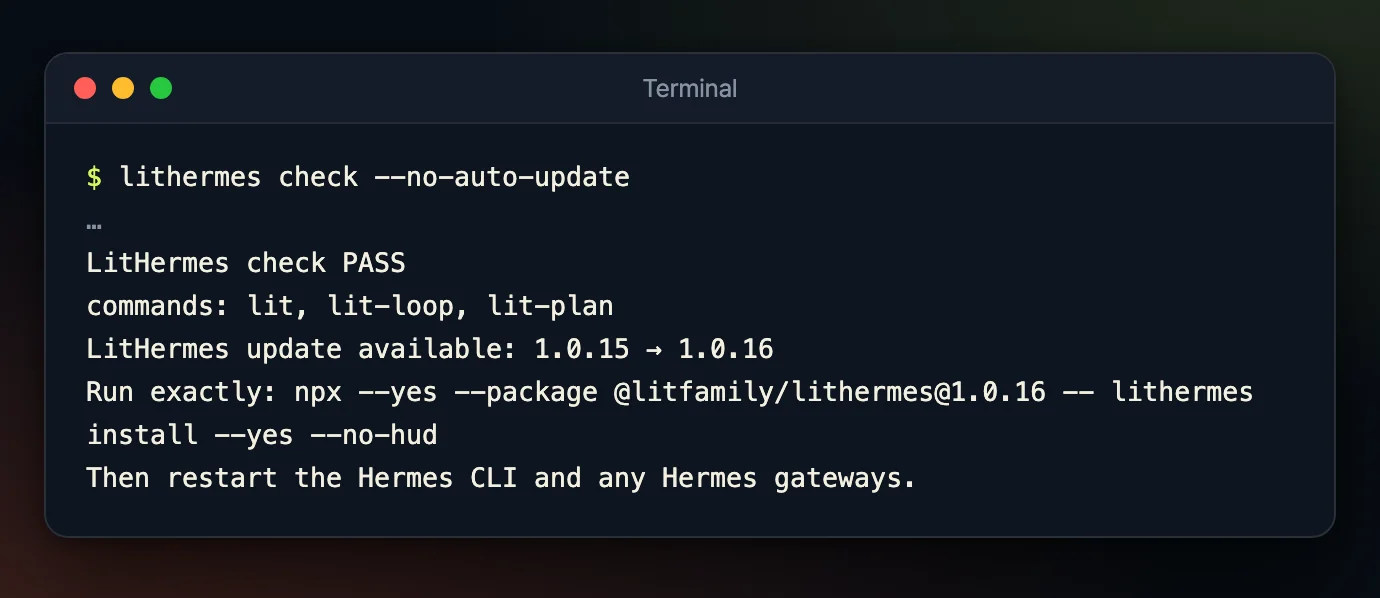
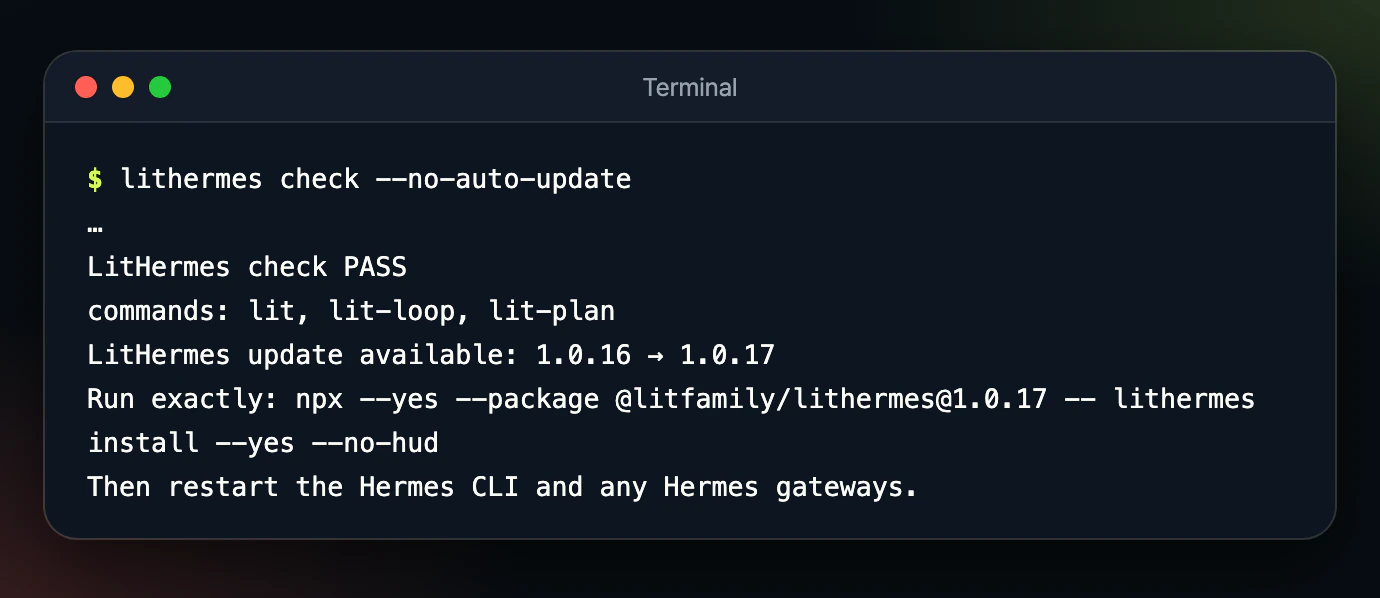
chore(release): prepare 1.0.16

diff --git a/packages/lithermes-installer/test/readme.test.js b/packages/lithermes-installer/test/readme.test.js
@@ -18,13 +18,13 @@ const localPublishCommand = "npm publish --access public";
 function assertCoverImage(text, label, repository) {
   const staticSrc = repository
     ? "./docs/assets/cover.webp"
-    : "https://cdn.jsdelivr.net/npm/@litfamily/lithermes@1.0.15/readme-assets/cover.webp";
+    : "https://cdn.jsdelivr.net/npm/@litfamily/lithermes@1.0.16/readme-assets/cover.webp";
   const reducedMotionSrc = repository
     ? "./docs/assets/cover-motion-still.webp"
-    : "https://cdn.jsdelivr.net/npm/@litfamily/lithermes@1.0.15/readme-assets/cover-motion-still.webp";
+    : "https://cdn.jsdelivr.net/npm/@litfamily/lithermes@1.0.16/readme-assets/cover-motion-still.webp";
   const motionSrc = repository
     ? "./docs/assets/cover-motion.webp"
-    : "https://cdn.jsdelivr.net/npm/@litfamily/lithermes@1.0.15/readme-assets/cover-motion.webp";
+    : "https://cdn.jsdelivr.net/npm/@litfamily/lithermes@1.0.16/readme-assets/cover-motion.webp";
   assert.ok(
     text.includes('<picture><source media="(prefers-reduced-motion: reduce)" srcset="' + reducedMotionSrc + '" /><img src="' + motionSrc + '" width="100%"'),
     label + " must use the animated cover and its reduced-motion still",
@@ -85,17 +85,17 @@ test("bilingual entry pages preserve the canonical banner and use repository art
       else assert.doesNotMatch(text, /<details>/, file + " is a short npm card without collapsible sections");
       const markSrc = directory === repoRoot
         ? "./docs/assets/readme/ascii-readme.svg"
-        : "https://cdn.jsdelivr.net/npm/@litfamily/lithermes@1.0.15/readme-assets/ascii-readme.svg";
+        : "https://cdn.jsdelivr.net/npm/@litfamily/lithermes@1.0.16/readme-assets/ascii-readme.svg";
       assert.ok(text.includes('<p align="center"><img src="' + markSrc + '" width="480"'), file + " must load its ASCII mark from its own surface");
       const coverSrc = directory === repoRoot
         ? "./docs/assets/cover-motion.webp"
-        : "https://cdn.jsdelivr.net/npm/@litfamily/lithermes@1.0.15/readme-assets/cover-motion.webp";
+        : "https://cdn.jsdelivr.net/npm/@litfamily/lithermes@1.0.16/readme-assets/cover-motion.webp";
       assert.ok(text.includes('src="' + coverSrc + '"'), file + " must resolve artwork from its own surface");
       assertCoverImage(text, file, directory === repoRoot);
       if (directory === repoRoot) {
         assert.doesNotMatch(text, /cdn\.jsdelivr/, "GitHub landing keeps repository-relative artwork");
       } else {
-        assert.match(text, /cdn\.jsdelivr\.net\/npm\/@litfamily\/lithermes@1\.0\.15\/readme-assets\//, "package landing must load artwork from the published tarball");
+        assert.match(text, /cdn\.jsdelivr\.net\/npm\/@litfamily\/lithermes@1\.0\.16\/readme-assets\//, "package landing must load artwork from the published tarball");
         assert.doesNotMatch(text, /raw\.githubusercontent/, "package landing must not depend on GitHub raw URLs");
       }
       assert.match(text, /```text\nlit [^\n]+\n```/, `${file} must show first bare lit use`);
@@ -337,9 +337,9 @@ function localPublishPolicyErrors(text) {
     for (const [pattern, message] of [
       [/nonzero/i, "nonzero-result handling"],
       [/never blind-retry/i, "no blind retry rule"],
-      [/npm view @litfamily\/lithermes@1\.0\.15 version/, "exact-version registry query"],
+      [/npm view @litfamily\/lithermes@1\.0\.16 version/, "exact-version registry query"],
       [/published artifact/i, "published-artifact inspection"],
-      [/npm pack @litfamily\/lithermes@1\.0\.15/, "published-artifact download"],
+      [/npm pack @litfamily\/lithermes@1\.0\.16/, "published-artifact download"],
     ]) {
       if (!pattern.test(followUp)) errors.push(`missing nearby ${message}`);
     }
@@ -417,7 +417,7 @@ test("root README files present polished GitHub landing pages", () => {
     for (const required of [
       "https://github.com/wjgoarxiv/lithermes",
       "https://www.npmjs.com/package/@litfamily/lithermes",
-      "@litfamily/lithermes@1.0.15",
+      "@litfamily/lithermes@1.0.16",
       "Hermes Goal Tools",
       "PREPARING INSTALL",
       "INSTALL RECEIPT",
@@ -472,7 +472,7 @@ test("English and Korean root/package docs explain the bounded Node update notic
 test("package metadata points at the renamed GitHub repository", () => {
   const pkg = require(path.join(packageRoot, "package.json"));
   assert.equal(pkg.name, "@litfamily/lithermes");
-   assert.equal(pkg.version, "1.0.15");
+   assert.equal(pkg.version, "1.0.16");
   assert.equal(pkg.bin.lithermes, "bin/lithermes.js");
   assert.equal(pkg.repository.type, "git");
   assert.equal(pkg.repository.url, "git+https://github.com/wjgoarxiv/lithermes.git");
@@ -528,8 +528,8 @@ guard protects this path, but its inspected preflight archive is not byte-identi
 \`\`\`sh
 npm publish --access public
 \`\`\`
-After any nonzero result, npm view @litfamily\/lithermes@1.0.15 version and never blind-retry. After success,
-download the published artifact with npm pack @litfamily\/lithermes@1.0.15 and inspect it.
+After any nonzero result, npm view @litfamily\/lithermes@1.0.16 version and never blind-retry. After success,
+download the published artifact with npm pack @litfamily\/lithermes@1.0.16 and inspect it.
 `;
   assert.deepEqual(localPublishPolicyErrors(sanctioned), [], "a fully sanctioned HUMAN-ONLY block must pass");
 });
@@ -604,7 +604,7 @@ test("README files document Korean prose cleanup command boundaries", () => {
   for (const [file, text] of docs) {
     const language = file.includes("Ko-KR") ? "ko" : "en";
     for (const required of [
-      "@litfamily/lithermes@1.0.15",
+      "@litfamily/lithermes@1.0.16",
       "lit-humanizer",
       "/lit-humanizer",
       "/lit-korean",
@@ -992,7 +992,7 @@ test("terminal screens ship on the GitHub pages only, in both themes, with capti
     const { version } = require("../package.json");
     assert.ok(pictures[0][3].includes(`Installed LitHermes ${version}`), `${name}: the install alt must quote the first line`);
     assert.ok(pictures[3][3].includes("🔥 LIT IGNITED · litwork 🔥"), `${name}: the acknowledgement alt must quote the line`);
-    assert.ok(pictures[4][3].includes(`LitHermes update available: ${version} → 1.0.16`), `${name}: the notice alt must quote the notice`);
+    assert.ok(pictures[4][3].includes(`LitHermes update available: ${version} → 1.0.17`), `${name}: the notice alt must quote the notice`);
     const captions = [...section.matchAll(/^\*([^*\n]+)\*$/gm)].map((match) => match[1]);
     assert.equal(captions.length, 5, `${name} needs one caption per picture`);
     for (const caption of captions) assert.match(caption, labels[lang], `${name}: caption must label the picture honestly`);

diff --git a/packages/lithermes-installer/test/prepublish-guard.test.js b/packages/lithermes-installer/test/prepublish-guard.test.js
@@ -264,7 +264,7 @@ test("guard runs every required gate and artifact step serially without publicat
     "git ls-remote --exit-code origin refs/heads/main",
     "npm config get registry",
     "npm whoami --registry=https://registry.npmjs.org/",
-    "npm view @litfamily\/lithermes@1.0.15 version --json --loglevel=silent --registry=https://registry.npmjs.org/",
+    "npm view @litfamily\/lithermes@1.0.16 version --json --loglevel=silent --registry=https://registry.npmjs.org/",
     "npm test",
     "npm run test:python",
   ];
@@ -319,7 +319,7 @@ test("last local snapshot rejects state changed after the final network checks",
     await assert.rejects(async () => loadGuard().runPrepublishGuard(harness.dependencies), message);
     const commands = harness.calls.map(commandText);
     const finalViewAt = commands.lastIndexOf(
-    "npm view @litfamily\/lithermes@1.0.15 version --json --loglevel=silent --registry=https://registry.npmjs.org/",
+    "npm view @litfamily\/lithermes@1.0.16 version --json --loglevel=silent --registry=https://registry.npmjs.org/",
     );
     assert.ok(finalViewAt >= 0);
     assert.deepEqual(commands.slice(finalViewAt + 1, finalViewAt + 4), [

diff --git a/packages/lithermes-installer/test/model-route-choice.test.js b/packages/lithermes-installer/test/model-route-choice.test.js
@@ -319,8 +319,8 @@ test("renderModelRouteCard prints one helper row without the provider when it ma
 
 test("renderInstallBanner uses the canonical banner and product lockup", () => {
   const mark = require("../src/lib/litMark");
-  const banner = renderInstallBanner({ version: "1.0.15", color: false, env: { LANG: "en_US.UTF-8" } });
-  assert.deepEqual(banner.split("\n"), mark.lockup("lithermes v1.0.15", mark.banner));
+  const banner = renderInstallBanner({ version: "1.0.16", color: false, env: { LANG: "en_US.UTF-8" } });
+  assert.deepEqual(banner.split("\n"), mark.lockup("lithermes v1.0.16", mark.banner));
   assert.equal(banner.split("\n").length, 20);
   assert.doesNotMatch(banner, /\x1b/);
 });

diff --git a/packages/lithermes-installer/test/release.test.js b/packages/lithermes-installer/test/release.test.js
@@ -153,7 +153,7 @@ test("CHANGELOG documents the 0.8.14 hyperplan release prep", () => {
 test("CHANGELOG assigns the notifier and skill integrity fixes to 0.8.31", () => {
   const text = read("CHANGELOG.md");
   const unreleasedStart = text.indexOf("## [Unreleased]");
-  const currentReleaseStart = text.indexOf("## [1.0.15]");
+  const currentReleaseStart = text.indexOf("## [1.0.16]");
   const releaseStart = text.indexOf("## [0.8.31]");
   const nextReleaseStart = text.indexOf("## [0.8.30]");
   assert.ok(

diff --git a/README.md b/README.md
@@ -34,7 +34,7 @@
 <p align="center"><img src="./docs/assets/lithermes-clay-icon.png" width="160" alt="LitHermes clay mark" /></p>
 
 <p align="center">
-<a href="#install"><img src="./docs/assets/readme/badge-version.svg" alt="1.0.15" /></a>
+<a href="#install"><img src="./docs/assets/readme/badge-version.svg" alt="1.0.16" /></a>
 <a href="./LICENSE"><img src="./docs/assets/readme/badge-license.svg" alt="MIT license" /></a>
 </p>
 
@@ -69,7 +69,7 @@ Plan → Make → Check → Leave the next step
 
 ## Install
 
-You need Hermes Agent, Node.js 18 or later, and write access to your Hermes home (normally `~/.hermes`). This page describes `@litfamily/lithermes@1.0.15`.
+You need Hermes Agent, Node.js 18 or later, and write access to your Hermes home (normally `~/.hermes`). This page describes `@litfamily/lithermes@1.0.16`.
 
 ```sh
 npx --yes --package @litfamily/lithermes@latest -- lithermes install --yes --no-style
@@ -154,7 +154,7 @@ Here is what LitHermes puts on your screen, from the install to your first task.
 
 **The install.** The installer copies the plugin into your Hermes home, writes the default model routes for a fresh home and saves a backup of your configuration first, so you can see where the backup file sits. It ends with the reminder to restart any running gateway, and one line about whether the film tools were fetched.
 
-<p align="center"><picture><source media="(prefers-color-scheme: dark)" srcset="./docs/assets/screens/install-dark.webp" /><img src="./docs/assets/screens/install-light.webp" width="690" alt="A terminal. The command &quot;lithermes install --yes --no-style --offline&quot; prints &quot;Installed LitHermes 1.0.15&quot;, &quot;plugin: ~/.hermes/plugins/lithermes&quot;, &quot;model config: updated&quot;, &quot;model backup: ~/.hermes/config.yaml.lithermes-model.bak&quot;, then &quot;lead route: configured (gpt-6-astra, effort xhigh)&quot; and &quot;ordinary worker route: configured (gpt-6-luna, effort max)&quot;, &quot;HUD skins: 13 accents installed — pick one with `npx --package @litfamily/lithermes -- lithermes hud &lt;accent&gt;`&quot;, &quot;Restart any running Hermes gateway to load new plugins.&quot; and &quot;Motion runtime: pre-warm skipped (--offline); run `lithermes motion-runtime install` before rendering a film.&quot; Two lines of dots mark cut lines." /></picture></p>
+<p align="center"><picture><source media="(prefers-color-scheme: dark)" srcset="./docs/assets/screens/install-dark.webp" /><img src="./docs/assets/screens/install-light.webp" width="690" alt="A terminal. The command &quot;lithermes install --yes --no-style --offline&quot; prints &quot;Installed LitHermes 1.0.16&quot;, &quot;plugin: ~/.hermes/plugins/lithermes&quot;, &quot;model config: updated&quot;, &quot;model backup: ~/.hermes/config.yaml.lithermes-model.bak&quot;, then &quot;lead route: configured (gpt-6-astra, effort xhigh)&quot; and &quot;ordinary worker route: configured (gpt-6-luna, effort max)&quot;, &quot;HUD skins: 13 accents installed — pick one with `npx --package @litfamily/lithermes -- lithermes hud &lt;accent&gt;`&quot;, &quot;Restart any running Hermes gateway to load new plugins.&quot; and &quot;Motion runtime: pre-warm skipped (--offline); run `lithermes motion-runtime install` before rendering a film.&quot; Two lines of dots mark cut lines." /></picture></p>
 
 *Captured from the real installer in a scratch Hermes home, run with three extra flags so that nothing left the machine and no Hermes installation was touched: offline, no automatic update and no compatibility patch. It read the local Hermes source without changing it. The lines about model routes are cut ("…"), and the scratch folder is written as ~/.hermes.*
 
@@ -178,9 +178,9 @@ Here is what LitHermes puts on your screen, from the install to your first task.
 
 **The update notice.** When a newer release is known and automatic updates are switched off, check, doctor and install end with a three-line notice: the two versions, the exact command to run, and a reminder to restart Hermes. The notice only tells you; nothing is installed until you run that command.
 
-<p align="center"><picture><source media="(prefers-color-scheme: dark)" srcset="./docs/assets/screens/update-notice-dark.webp" /><img src="./docs/assets/screens/update-notice-light.webp" width="690" alt="A terminal. The command &quot;lithermes check --no-auto-update&quot; prints &quot;LitHermes check PASS&quot;, &quot;commands: lit, lit-loop, lit-plan&quot;, &quot;LitHermes update available: 1.0.15 → 1.0.16&quot;, a line that starts &quot;Run exactly:&quot; and gives the npx command that installs that release, and &quot;Then restart the Hermes CLI and any Hermes gateways.&quot;" /></picture></p>
+<p align="center"><picture><source media="(prefers-color-scheme: dark)" srcset="./docs/assets/screens/update-notice-dark.webp" /><img src="./docs/assets/screens/update-notice-light.webp" width="690" alt="A terminal. The command &quot;lithermes check --no-auto-update&quot; prints &quot;LitHermes check PASS&quot;, &quot;commands: lit, lit-loop, lit-plan&quot;, &quot;LitHermes update available: 1.0.16 → 1.0.17&quot;, a line that starts &quot;Run exactly:&quot; and gives the npx command that installs that release, and &quot;Then restart the Hermes CLI and any Hermes gateways.&quot;" /></picture></p>
 
-*Captured from the real check command in the scratch home. To make the notice appear, a saved update file naming 1.0.16 was placed there, so that release number is a stand-in. The banner above the result lines is cut.*
+*Captured from the real check command in the scratch home. To make the notice appear, a saved update file naming 1.0.17 was placed there, so that release number is a stand-in. The banner above the result lines is cut.*
 
 ## Watch it in motion
 

diff --git a/packages/lithermes-installer/README_Ko-KR.md b/packages/lithermes-installer/README_Ko-KR.md
@@ -1,16 +1,16 @@
-<p align="center"><picture><source media="(prefers-reduced-motion: reduce)" srcset="https://cdn.jsdelivr.net/npm/@litfamily/lithermes@1.0.15/readme-assets/cover-motion-still.webp" /><img src="https://cdn.jsdelivr.net/npm/@litfamily/lithermes@1.0.15/readme-assets/cover-motion.webp" width="100%" alt="LitFamily 모션 커버: 다섯 로봇 패널이 차례로 켜지고, LitHermes 로봇의 눈과 테두리가 빛난 뒤 LITFAMILY와 KEEP THE WORK LIT. 문구가 밝아지는 영상" /></picture></p>
+<p align="center"><picture><source media="(prefers-reduced-motion: reduce)" srcset="https://cdn.jsdelivr.net/npm/@litfamily/lithermes@1.0.16/readme-assets/cover-motion-still.webp" /><img src="https://cdn.jsdelivr.net/npm/@litfamily/lithermes@1.0.16/readme-assets/cover-motion.webp" width="100%" alt="LitFamily 모션 커버: 다섯 로봇 패널이 차례로 켜지고, LitHermes 로봇의 눈과 테두리가 빛난 뒤 LITFAMILY와 KEEP THE WORK LIT. 문구가 밝아지는 영상" /></picture></p>
 
-<p align="center"><img src="https://cdn.jsdelivr.net/npm/@litfamily/lithermes@1.0.15/readme-assets/ascii-readme.svg" width="480" alt="LIT ASCII B 마크" /></p>
+<p align="center"><img src="https://cdn.jsdelivr.net/npm/@litfamily/lithermes@1.0.16/readme-assets/ascii-readme.svg" width="480" alt="LIT ASCII B 마크" /></p>
 
 <p align="center">
-<a href="#설치"><img src="https://cdn.jsdelivr.net/npm/@litfamily/lithermes@1.0.15/readme-assets/badge-version.svg" alt="1.0.15" /></a>
-<a href="https://github.com/wjgoarxiv/lithermes/blob/main/LICENSE"><img src="https://cdn.jsdelivr.net/npm/@litfamily/lithermes@1.0.15/readme-assets/badge-license.svg" alt="MIT license" /></a>
+<a href="#설치"><img src="https://cdn.jsdelivr.net/npm/@litfamily/lithermes@1.0.16/readme-assets/badge-version.svg" alt="1.0.16" /></a>
+<a href="https://github.com/wjgoarxiv/lithermes/blob/main/LICENSE"><img src="https://cdn.jsdelivr.net/npm/@litfamily/lithermes@1.0.16/readme-assets/badge-license.svg" alt="MIT license" /></a>
 </p>
 
 <p align="center">
-<a href="https://github.com/wjgoarxiv/lithermes/blob/main/docs/guide.ko.md"><img src="https://cdn.jsdelivr.net/npm/@litfamily/lithermes@1.0.15/readme-assets/lucide-book-open.svg" width="16" alt="" /> 안내</a> &nbsp;
-<a href="https://cdn.jsdelivr.net/npm/@litfamily/lithermes@1.0.15/readme-assets/ignition-film.mp4"><img src="https://cdn.jsdelivr.net/npm/@litfamily/lithermes@1.0.15/readme-assets/lucide-play.svg" width="16" alt="" /> Ignition 영상</a> &nbsp;
-<a href="https://github.com/wjgoarxiv/lithermes/blob/main/LICENSE"><img src="https://cdn.jsdelivr.net/npm/@litfamily/lithermes@1.0.15/readme-assets/lucide-shield-check.svg" width="16" alt="" /> MIT</a>
+<a href="https://github.com/wjgoarxiv/lithermes/blob/main/docs/guide.ko.md"><img src="https://cdn.jsdelivr.net/npm/@litfamily/lithermes@1.0.16/readme-assets/lucide-book-open.svg" width="16" alt="" /> 안내</a> &nbsp;
+<a href="https://cdn.jsdelivr.net/npm/@litfamily/lithermes@1.0.16/readme-assets/ignition-film.mp4"><img src="https://cdn.jsdelivr.net/npm/@litfamily/lithermes@1.0.16/readme-assets/lucide-play.svg" width="16" alt="" /> Ignition 영상</a> &nbsp;
+<a href="https://github.com/wjgoarxiv/lithermes/blob/main/LICENSE"><img src="https://cdn.jsdelivr.net/npm/@litfamily/lithermes@1.0.16/readme-assets/lucide-shield-check.svg" width="16" alt="" /> MIT</a>
 </p>
 
 # LitHermes
@@ -19,7 +19,7 @@
 
 **Hermes Agent**용 플러그인입니다. 요청에 `lit`을 붙이면 Hermes가 작업을 계획하고, 실행하고, 확인한 뒤 다음 세션이 이어받을 기록을 남깁니다.
 
-**[전체 안내와 스킬 갤러리는 GitHub에서](https://github.com/wjgoarxiv/lithermes/blob/main/README_Ko-KR.md)** · [English](https://cdn.jsdelivr.net/npm/@litfamily/lithermes@1.0.15/README.md)
+**[전체 안내와 스킬 갤러리는 GitHub에서](https://github.com/wjgoarxiv/lithermes/blob/main/README_Ko-KR.md)** · [English](https://cdn.jsdelivr.net/npm/@litfamily/lithermes@1.0.16/README.md)
 
 ## 설치
 

diff --git a/packages/lithermes-installer/README.md b/packages/lithermes-installer/README.md
@@ -1,16 +1,16 @@
-<p align="center"><picture><source media="(prefers-reduced-motion: reduce)" srcset="https://cdn.jsdelivr.net/npm/@litfamily/lithermes@1.0.15/readme-assets/cover-motion-still.webp" /><img src="https://cdn.jsdelivr.net/npm/@litfamily/lithermes@1.0.15/readme-assets/cover-motion.webp" width="100%" alt="LitFamily motion cover: five armored robots power on one by one, the LitHermes robot wakes with glowing eyes and a lit frame, then LITFAMILY and KEEP THE WORK LIT. light up." /></picture></p>
+<p align="center"><picture><source media="(prefers-reduced-motion: reduce)" srcset="https://cdn.jsdelivr.net/npm/@litfamily/lithermes@1.0.16/readme-assets/cover-motion-still.webp" /><img src="https://cdn.jsdelivr.net/npm/@litfamily/lithermes@1.0.16/readme-assets/cover-motion.webp" width="100%" alt="LitFamily motion cover: five armored robots power on one by one, the LitHermes robot wakes with glowing eyes and a lit frame, then LITFAMILY and KEEP THE WORK LIT. light up." /></picture></p>
 
-<p align="center"><img src="https://cdn.jsdelivr.net/npm/@litfamily/lithermes@1.0.15/readme-assets/ascii-readme.svg" width="480" alt="LIT ASCII B mark" /></p>
+<p align="center"><img src="https://cdn.jsdelivr.net/npm/@litfamily/lithermes@1.0.16/readme-assets/ascii-readme.svg" width="480" alt="LIT ASCII B mark" /></p>
 
 <p align="center">
-<a href="#install"><img src="https://cdn.jsdelivr.net/npm/@litfamily/lithermes@1.0.15/readme-assets/badge-version.svg" alt="1.0.15" /></a>
-<a href="https://github.com/wjgoarxiv/lithermes/blob/main/LICENSE"><img src="https://cdn.jsdelivr.net/npm/@litfamily/lithermes@1.0.15/readme-assets/badge-license.svg" alt="MIT license" /></a>
+<a href="#install"><img src="https://cdn.jsdelivr.net/npm/@litfamily/lithermes@1.0.16/readme-assets/badge-version.svg" alt="1.0.16" /></a>
+<a href="https://github.com/wjgoarxiv/lithermes/blob/main/LICENSE"><img src="https://cdn.jsdelivr.net/npm/@litfamily/lithermes@1.0.16/readme-assets/badge-license.svg" alt="MIT license" /></a>
 </p>
 
 <p align="center">
-<a href="https://github.com/wjgoarxiv/lithermes/blob/main/docs/guide.md"><img src="https://cdn.jsdelivr.net/npm/@litfamily/lithermes@1.0.15/readme-assets/lucide-book-open.svg" width="16" alt="" /> Guide</a> &nbsp;
-<a href="https://cdn.jsdelivr.net/npm/@litfamily/lithermes@1.0.15/readme-assets/ignition-film.mp4"><img src="https://cdn.jsdelivr.net/npm/@litfamily/lithermes@1.0.15/readme-assets/lucide-play.svg" width="16" alt="" /> Ignition film</a> &nbsp;
-<a href="https://github.com/wjgoarxiv/lithermes/blob/main/LICENSE"><img src="https://cdn.jsdelivr.net/npm/@litfamily/lithermes@1.0.15/readme-assets/lucide-shield-check.svg" width="16" alt="" /> MIT</a>
+<a href="https://github.com/wjgoarxiv/lithermes/blob/main/docs/guide.md"><img src="https://cdn.jsdelivr.net/npm/@litfamily/lithermes@1.0.16/readme-assets/lucide-book-open.svg" width="16" alt="" /> Guide</a> &nbsp;
+<a href="https://cdn.jsdelivr.net/npm/@litfamily/lithermes@1.0.16/readme-assets/ignition-film.mp4"><img src="https://cdn.jsdelivr.net/npm/@litfamily/lithermes@1.0.16/readme-assets/lucide-play.svg" width="16" alt="" /> Ignition film</a> &nbsp;
+<a href="https://github.com/wjgoarxiv/lithermes/blob/main/LICENSE"><img src="https://cdn.jsdelivr.net/npm/@litfamily/lithermes@1.0.16/readme-assets/lucide-shield-check.svg" width="16" alt="" /> MIT</a>
 </p>
 
 # LitHermes
@@ -19,7 +19,7 @@
 
 A plugin for **Hermes Agent**. Add `lit` to a request, and Hermes plans the task, does it, checks it, and leaves a note the next session can pick up.
 
-**[Full guide and skills gallery on GitHub](https://github.com/wjgoarxiv/lithermes#readme)** · [한국어](https://cdn.jsdelivr.net/npm/@litfamily/lithermes@1.0.15/README_Ko-KR.md)
+**[Full guide and skills gallery on GitHub](https://github.com/wjgoarxiv/lithermes#readme)** · [한국어](https://cdn.jsdelivr.net/npm/@litfamily/lithermes@1.0.16/README_Ko-KR.md)
 
 ## Install
 

diff --git a/RELEASE_CHECKLIST.md b/RELEASE_CHECKLIST.md
@@ -38,12 +38,11 @@ versions without direct user approval.
 Note: `payload-version.json` is a source-sync manifest, not a product version.
 Re-sync only if bundled plugin files changed.
 
-### 1.0.15 factual release scope
+### 1.0.16 factual release scope
 
-This checklist covers the 1.0.15 release.
+This checklist covers the 1.0.16 release.
 
-- [ ] `gpt-6.1-sol` is the recommended coding-lead alternative in the installer's lead-model menu, in `doctor` and in the guide; the previous generation `gpt-6-sol` stays selectable with the same efforts, so existing configs keep working.
-- [ ] Automatic handoff loads the saved handoff after compaction although Hermes gives the compacted conversation a new session id; it stays off by default with no built-in percent.
+- [ ] Automatic handoff finds the handoff it asked for after compaction even when the model formats the marker line as a bullet, in backticks or in bold; a handoff from another session is still ignored, and the feature stays off by default with no built-in percent.
 - [ ] The install and update-notice pictures were recaptured at this version.
 - [ ] The version lockstep, full color-on Node suite, Python suite, both token scans, dry pack, and isolated real-surface QA gates pass; the packed tarball stays under the 12 MiB cap.
 
@@ -347,7 +346,7 @@ Releases are published by hand from a maintainer machine; no CI workflow publish
 
 - [ ] Run from `packages/lithermes-installer` with `clean main` aligned to `live origin/main`.
 - [ ] Confirm `https://registry.npmjs.org/`, `npm whoami`, and a structured target-version `E404`
-  from `npm view @litfamily/lithermes@1.0.15 version`.
+  from `npm view @litfamily/lithermes@1.0.16 version`.
 - [ ] Run the full gates, both `scan-forbidden-tokens` modes, and `qa:real-surface`.
 - [ ] Record explicit approval. The `prepublishOnly` source-only guard repeats the gates and records
   a SHA-256 digest for its inspected preflight tarball. It is **not byte-identical** to the published
@@ -369,10 +368,10 @@ stop and diagnose; an existing version may mean publication succeeded despite th
 success, download and inspect the published artifact.
 
 ```sh
-  npm view @litfamily/lithermes@1.0.15 version --json --registry=https://registry.npmjs.org/
+  npm view @litfamily/lithermes@1.0.16 version --json --registry=https://registry.npmjs.org/
 VERIFY_DIR="$(mktemp -d)"
-  npm pack @litfamily/lithermes@1.0.15 --pack-destination "$VERIFY_DIR" --registry=https://registry.npmjs.org/
-  tar -tzf "$VERIFY_DIR/litfamily-lithermes-1.0.15.tgz"
-  node test/scripts/scan-forbidden-tokens.js --pack-tar "$VERIFY_DIR/litfamily-lithermes-1.0.15.tgz"
+  npm pack @litfamily/lithermes@1.0.16 --pack-destination "$VERIFY_DIR" --registry=https://registry.npmjs.org/
+  tar -tzf "$VERIFY_DIR/litfamily-lithermes-1.0.16.tgz"
+  node test/scripts/scan-forbidden-tokens.js --pack-tar "$VERIFY_DIR/litfamily-lithermes-1.0.16.tgz"
 rm -rf "$VERIFY_DIR"
 ```

diff --git a/CHANGELOG.md b/CHANGELOG.md
@@ -6,6 +6,10 @@ identity or source-provenance tokens in tracked files.
 
 ## [Unreleased]
 
+## [1.0.16] - 2026-10-01
+
+- Automatic handoff now finds the handoff it asked for after compaction even when the model formats the marker line, for example as a bullet, in backticks or in bold. A handoff from another session is still ignored.
+
 ## [1.0.15] - 2026-09-30
 
 - `gpt-6.1-sol` is now the recommended coding-lead alternative, because OpenAI lists `gpt-6-sol` as the previous generation. You see it in the installer's lead-model menu, in `hermes lithermes doctor` and in the guide. `gpt-6-sol` still works for anyone who already chose it.

diff --git a/packages/lithermes-installer/assets/lithermes-plugin/skills/frontend-ui-ux/references/complete-contract.md b/packages/lithermes-installer/assets/lithermes-plugin/skills/frontend-ui-ux/references/complete-contract.md
@@ -445,7 +445,7 @@ isolated Hermes home. Use `--hermes-home`; never `--home`.
 
 ```text
 $ node packages/lithermes-installer/bin/lithermes.js install --yes --offline --no-hud --hermes-home "$ISOLATED"
-Installed LitHermes 1.0.15
+Installed LitHermes 1.0.16
 plugin: $ISOLATED/plugins/lithermes
 model config: updated
 
@@ -462,7 +462,7 @@ installed payload: PASS
 enabled config: PASS
 
 $ hermes lithermes doctor
-[OK] plugin.yaml readable (version 1.0.15)
+[OK] plugin.yaml readable (version 1.0.16)
 [OK] skills bundled: 36
 [OK] litgoal durable runtime importable
 ```

diff --git a/packages/lithermes-installer/assets/lithermes-plugin/skills/visual-qa/references/complete-contract.md b/packages/lithermes-installer/assets/lithermes-plugin/skills/visual-qa/references/complete-contract.md
@@ -485,7 +485,7 @@ isolated Hermes home. Use `--hermes-home`; never `--home`.
 
 ```text
 $ node packages/lithermes-installer/bin/lithermes.js install --yes --offline --no-hud --hermes-home "$ISOLATED"
-Installed LitHermes 1.0.15
+Installed LitHermes 1.0.16
 plugin: $ISOLATED/plugins/lithermes
 model config: updated
 
@@ -502,7 +502,7 @@ installed payload: PASS
 enabled config: PASS
 
 $ hermes lithermes doctor
-[OK] plugin.yaml readable (version 1.0.15)
+[OK] plugin.yaml readable (version 1.0.16)
 [OK] skills bundled: 36
 [OK] litgoal durable runtime importable
 ```
